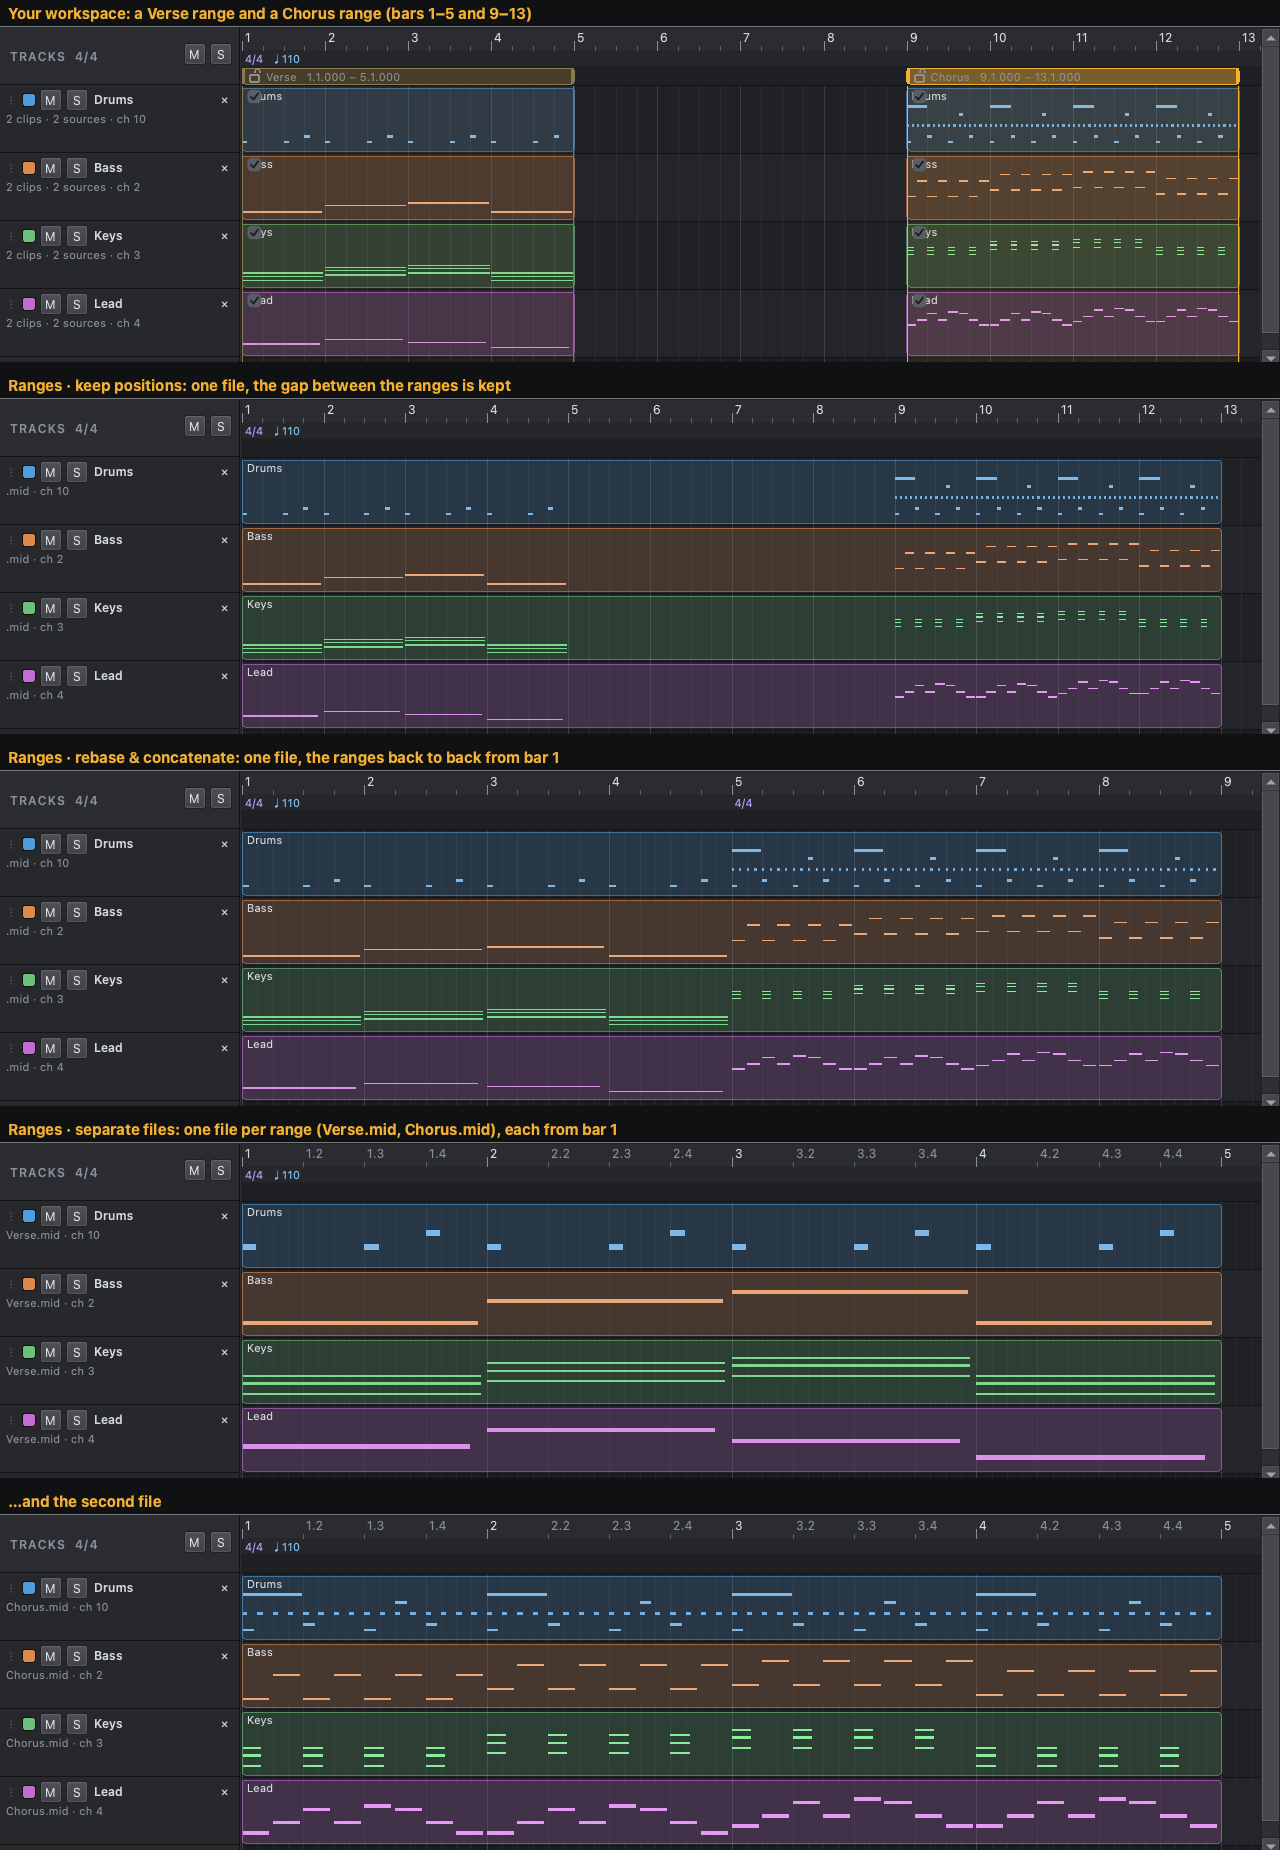
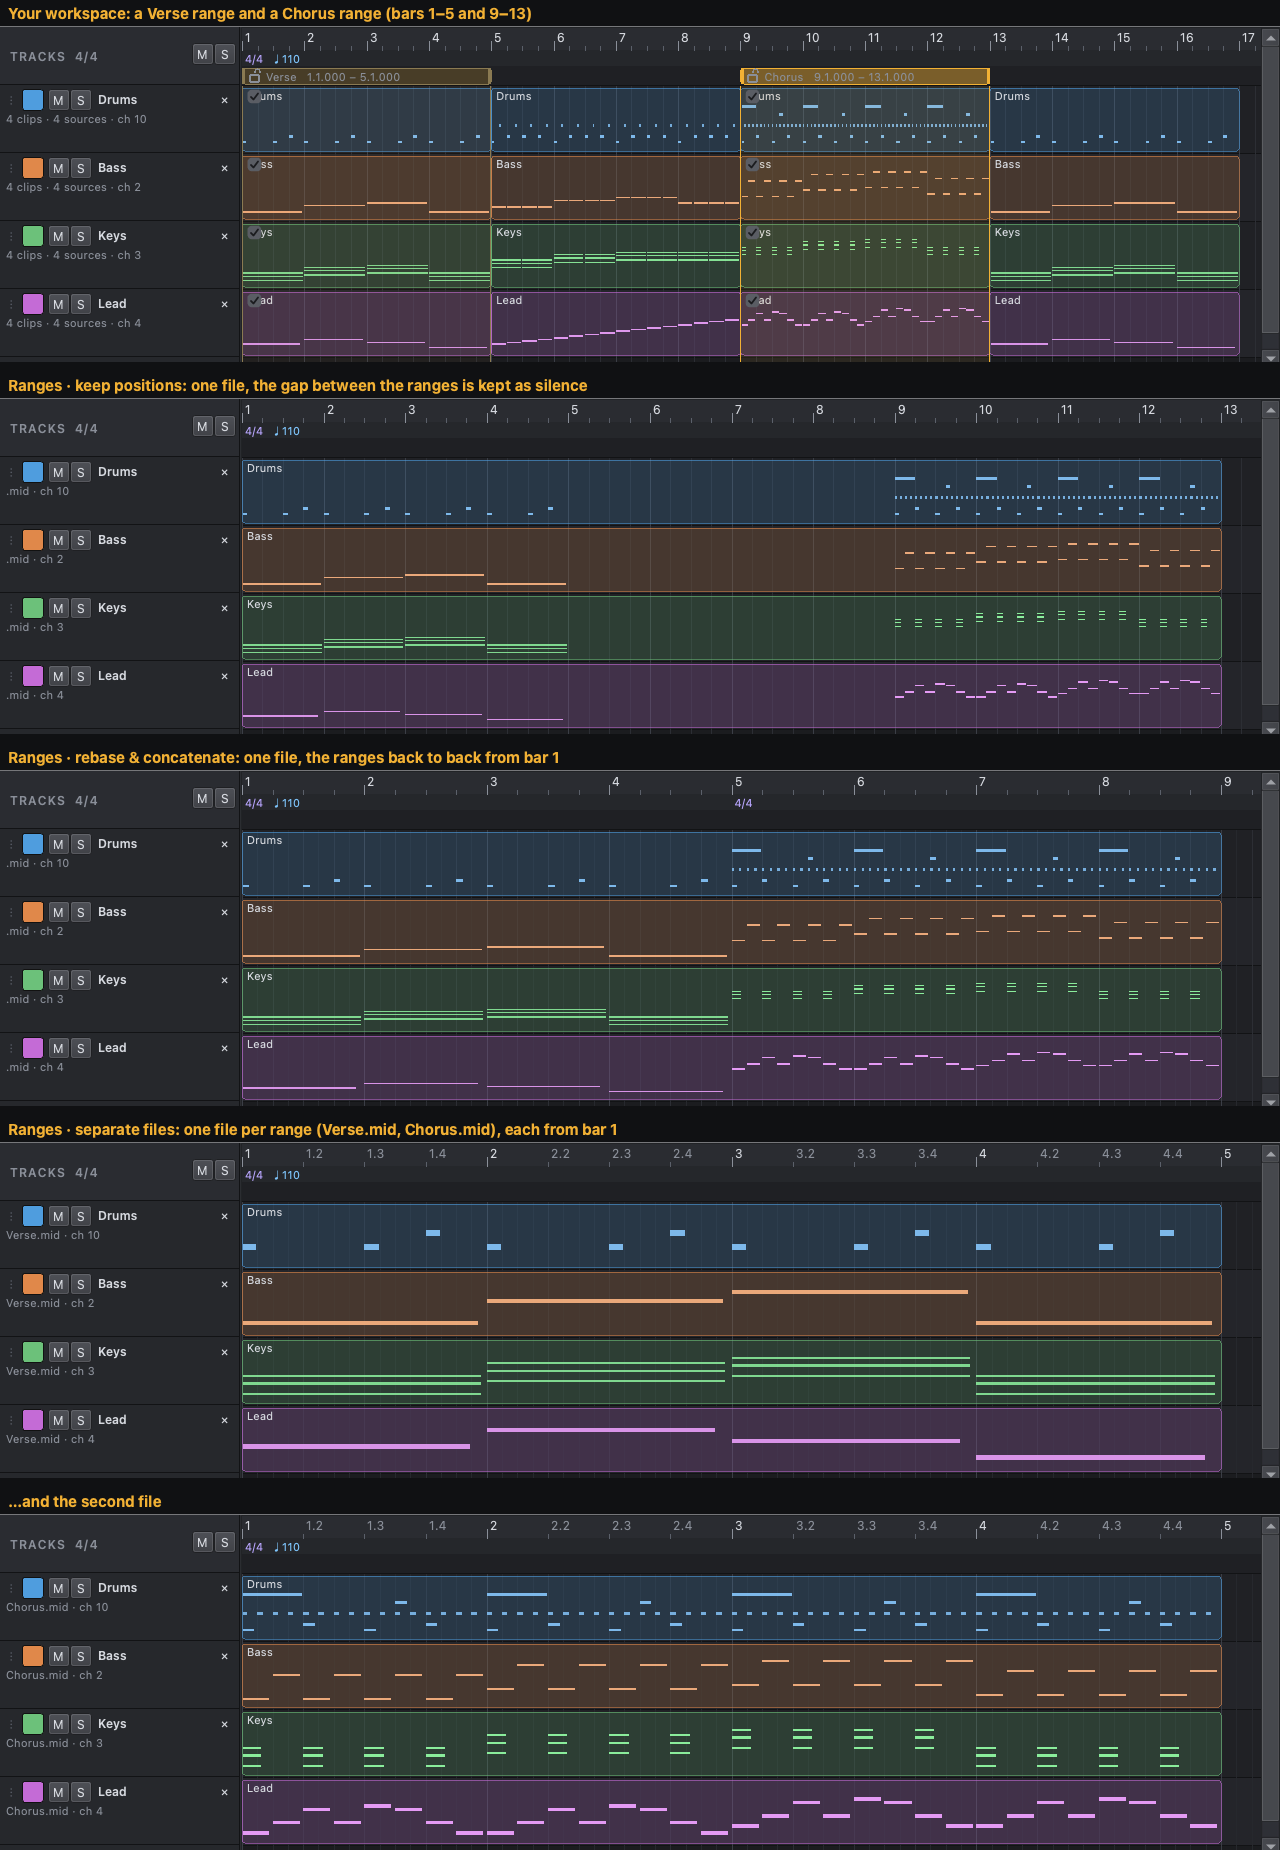
README export-modes image: carve the ranges out of a full song
Image 08 now has a Pre-Chorus between the Verse and Chorus ranges and an
Outro after them, so the ranges are cut from continuous material.

diff --git a/tools/make_readme_screenshots.py b/tools/make_readme_screenshots.py
@@ -130,6 +130,31 @@ def lead(chorus):
     return _file("Lead", ev)
 
 
+# A mid-energy build between verse and chorus (quarter-note pulse, rising lead), used only by image 8
+# so its ranges are visibly carved out of a continuous song.
+def prechorus(fn):
+    ev = []
+    name = fn.__name__
+    if name == "drums":
+        for bar in range(4):
+            for beat in range(4):
+                t = bar * BAR + beat * PPQ
+                ev += _notes(9, [(36 if beat == 0 else 38, t, 100)])
+                ev += _notes(9, [(42, t + PPQ // 2, 60)], vel=70)         # eighth hats
+    elif name == "bass":
+        for bar, r in enumerate([40, 45, 47, 43]):
+            for beat in range(4):
+                ev += _notes(1, [(r, bar * BAR + beat * PPQ, PPQ - 40)])  # steady quarters
+    elif name == "keys":
+        for bar, ch in enumerate([(60, 64, 67), (65, 69, 72), (67, 71, 74), (67, 71, 74)]):
+            for half in range(2):
+                ev += _notes(2, [(p, bar * BAR + half * 2 * PPQ, 2 * PPQ - 40) for p in ch], vel=85)
+    else:
+        for i in range(16):
+            ev += _notes(3, [(64 + i, i * PPQ, PPQ - 40)], vel=100)       # rising quarter notes
+    return _file(name.capitalize(), ev)
+
+
 # ---------------------------------------------------------------- annotation
 class Shot:
     def __init__(self, w: MainWindow) -> None:
@@ -201,11 +226,16 @@ def drop(w: MainWindow, name: str, data: bytes, bar: int, track: str | None = No
     w.ctl.import_payloads([Payload(f"{name}.mid", data)], Placement(time=F(4 * (bar - 1)), target_track_id=tid))
 
 
-def build_song(w: MainWindow, chorus_bar: int = 9) -> None:
+def build_song(w: MainWindow, chorus_bar: int = 9, full_song: bool = False) -> None:
+    """full_song also fills the gap with a Pre-Chorus (bars 5-9) and adds an Outro after the chorus."""
     for fn in (drums, bass, keys, lead):
         name = fn.__name__.capitalize()
         drop(w, name + " - Verse", fn(False), 1)
+        if full_song:
+            drop(w, name + " - Pre-Chorus", prechorus(fn), 5, name)
         drop(w, name + " - Chorus", fn(True), chorus_bar, name)
+        if full_song:
+            drop(w, name + " - Outro", fn(False), chorus_bar + 4, name)
     w.timeline.zoom_to_fit()
     w.timeline.horizontalScrollBar().setValue(0)
     QApplication.processEvents()
@@ -443,7 +473,7 @@ def main() -> None:
     # ---- 8. what each export mode produces ------------------------------------------------------------------
     w = new_window(app)
     w.resize(1280, 420)
-    build_song(w)
+    build_song(w, full_song=True)
     ctl = w.ctl
     ctl.add_range(F(0), F(16))
     ctl.update_range(ctl.ws.ranges[0].id, name="Verse")
@@ -452,7 +482,7 @@ def main() -> None:
     w.resize(1280, 520)
     src = tracks_crop(w)
     parts = [("Your workspace: a Verse range and a Chorus range (bars 1–5 and 9–13)", src)]
-    for mode, caption in ((ExportMode.PRESERVE, "Ranges · keep positions: one file, the gap between the ranges is kept"),
+    for mode, caption in ((ExportMode.PRESERVE, "Ranges · keep positions: one file, the gap between the ranges is kept as silence"),
                           (ExportMode.REBASE, "Ranges · rebase & concatenate: one file, the ranges back to back from bar 1"),
                           (ExportMode.SEPARATE, "Ranges · separate files: one file per range (Verse.mid, Chorus.mid), each from bar 1")):
         ctl.set_export_mode(mode)
